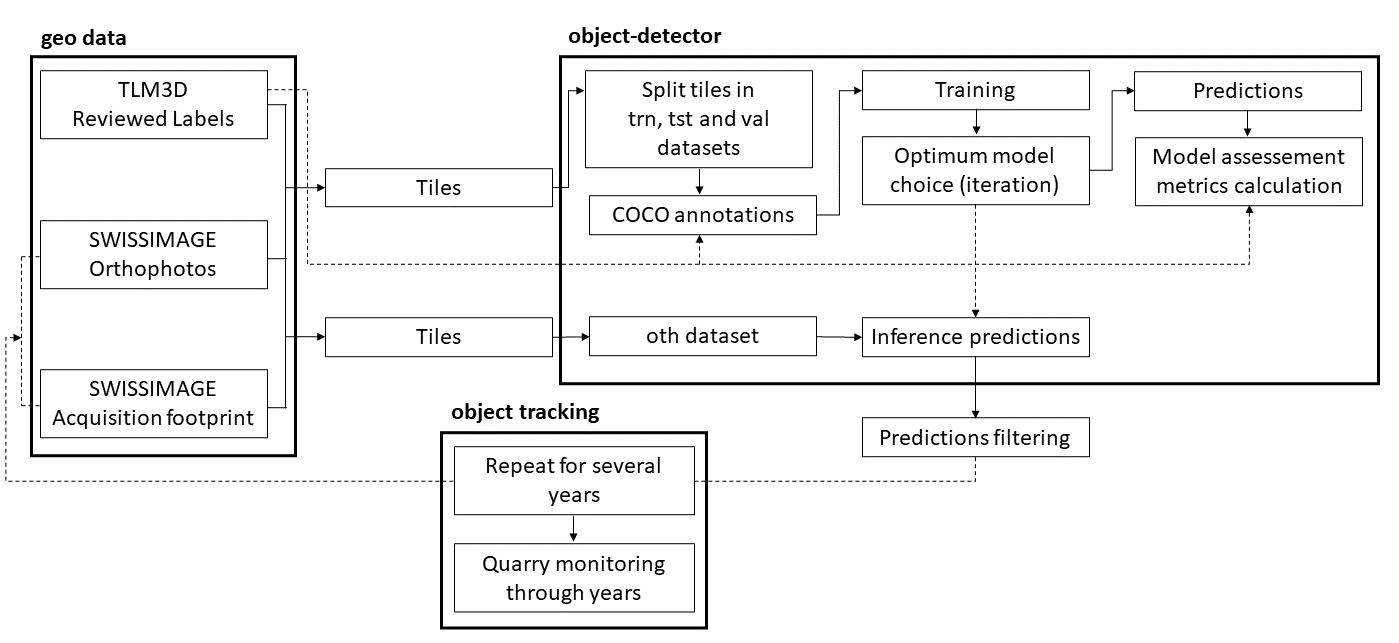
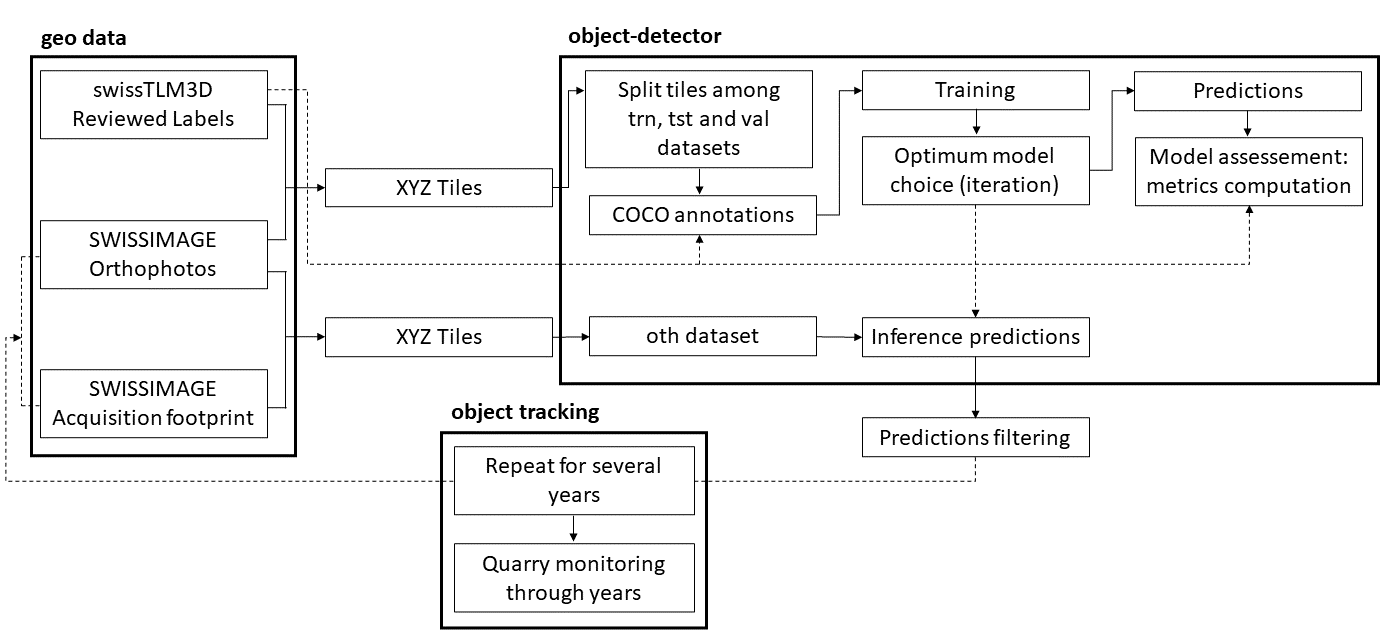
Add disclamer and modify workflow scheme

diff --git a/README.md b/README.md
@@ -227,6 +227,11 @@ The workflow has been automatized and can be run for batch of years by running t
     $ python3 ../scripts/plots.py config-dm.yaml
 
 
+## Disclaimer
+
+The results provided by the `proj-dqry` framework are resulting from numerical implementation providing segmentation of **potential** quarry sites. False positive and false negative detection, inherent to deep learning automatic methods, are present in the final detection dataset. A **manual inspection** of the detection must be performed before data exploitation and interpretation.
+
+
 ## Copyright and License
  
 **proj-dqry** - Nils Hamel, Adrian Meyer, Huriel Reichel, Clémence Herny, Shanci Li, Alessandro Cerioni, Roxane Pott <br >
